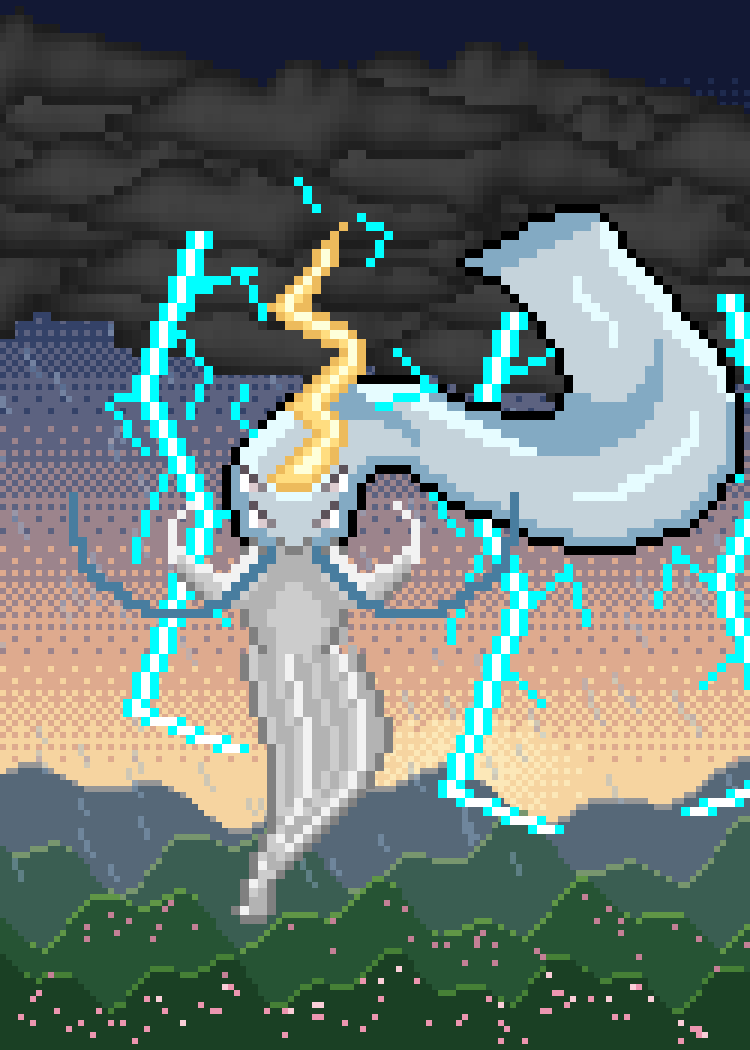
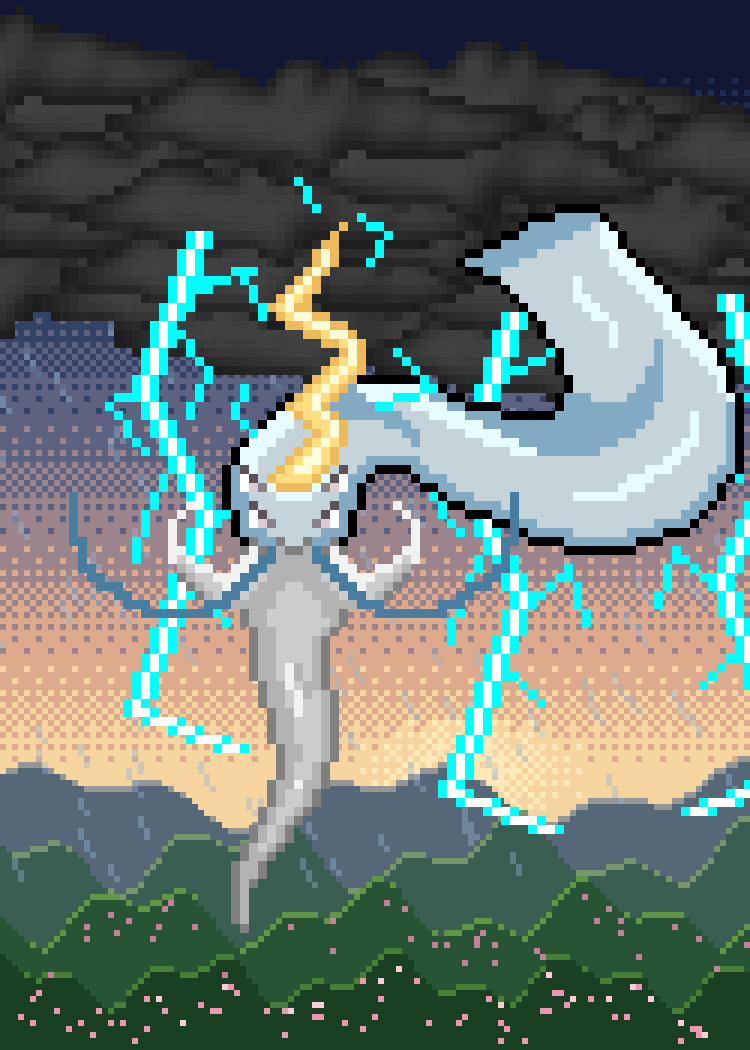
Spring Thunder: Bart nahtlos angesetzt und spitz auslaufend
Der Bart ist ab Zeile 50 als durchgehende Form neu gezeichnet, die Breite und
Zeilenaufbau des Originals fortsetzt (Kontur, Mittelgrau, heller Kern),
ohne Knick in eine S-Welle schwingt und in einer 1-Pixel-Spitze oberhalb
des Rahmens endet.

Claude-Session: https://claude.ai/code/session_01TEnvTzH2xD44R6Unjv7vDo

Changed region(s): [[0.3067, 0.579, 0.5213, 0.8838]]

diff --git a/data/sleeve-proposals/runde4/generator/s51_spring_thunder.py b/data/sleeve-proposals/runde4/generator/s51_spring_thunder.py
@@ -73,41 +73,39 @@ def put(s, x, y):
     m = src[..., 3] > 0; dst[m] = src[m]
 
 drag = sprite('r4q_qinglong', B, [1521, 1522, 1526])   # Ursprung (230, 247) in Motive
-# Bart: in der Ebene am Kartenrand flach abgeschnitten (Zeile 54) – hier als langer, wallender Bart aus
-# einzelnen Strähnen weitergezeichnet, in den Grautönen des Originalbarts (Kontur 128, Strähnen 179/204,
-# Glanz 242), im Raster des Drachen. Die Strähnen schwingen gemeinsam in einer S-Welle und laufen spitz aus.
-BEARD_LEN = 34
+# Bart: in der Ebene am Kartenrand flach abgeschnitten (Zeile 54). Ab Zeile 50 wird er als eine durchgehende,
+# wallende Form weitergezeichnet, die nahtlos an Breite und Zeilenaufbau des Originals anschließt
+# (je Zeile: Kontur 128 | 2× Mittelgrau 179 | heller Kern 204 | Mittelgrau | Kontur): die Mittellinie schwingt
+# ohne Knick aus der Senkrechten in eine S-Welle, die Breite nimmt gleichmäßig bis zu einer 1-Pixel-Spitze ab.
+# Im hellen Kern laufen zwei Strähnenlinien (Glanz 242, Mittelgrau) mit der Welle mit.
+BEARD_LEN = 28
 ext = np.zeros((drag.shape[0] + BEARD_LEN, drag.shape[1], 4), np.uint8)
 ext[:drag.shape[0]] = drag
-ext[53:, 16:36] = 0                                     # abgeschnittenes Bartende entfernen (inkl. Einzelstrang)
-G_OUT, G_MID, G_LIGHT, G_HI = (128, 128, 128), (179, 179, 179), (204, 204, 204), (242, 242, 242)
 Y0 = 50
-starts = np.arange(21, 31)                              # Strähnenansätze über die Bartbreite (Zeile 50)
-for j, x0 in enumerate(starts):
-    length = BEARD_LEN + 1 - abs(j - 4.5) * 1.6 - (j % 3) * 2
-    col = [G_LIGHT, G_MID, G_LIGHT, G_HI, G_MID][j % 5]
-    for y in range(Y0, int(Y0 + length)):
-        t = (y - Y0) / BEARD_LEN
-        spread = 0.55 * np.sin(np.pi * min(1, t * 1.4)) - 0.75 * t    # unterm Kinn aufbauschen, dann zusammen
-        sway = 6.0 * np.sin(t * 5.6 - 0.5 + j * 0.05) * t ** 0.8        # wallende S-Welle, unten stärker
-        x = int(round(x0 + (x0 - 25.5) * spread + sway))
-        if 0 <= x < ext.shape[1]:
-            if ext[y, x, 3] == 0 or y >= 53:
-                ext[y, x, :3] = col; ext[y, x, 3] = 255
-# Lücken zwischen den Strähnen schließen (Bart ist eine Fläche), dann dunkle Kontur außen
-m = ext[..., 3] > 0
-reg = np.zeros_like(m); reg[53:] = True
-for y in range(53, 53 + int(BEARD_LEN * 0.62)):
-    xs = np.where(m[y, 8:44])[0] + 8
-    if len(xs) > 1:
-        for x in range(xs.min(), xs.max() + 1):
-            if not m[y, x]:
-                ext[y, x, :3] = G_MID; ext[y, x, 3] = 255
-m = ext[..., 3] > 0
-edge = np.zeros_like(m)
-edge[1:] |= m[:-1]; edge[:-1] |= m[1:]; edge[:, 1:] |= m[:, :-1]; edge[:, :-1] |= m[:, 1:]
-edge &= ~m & reg
-ext[edge, :3] = G_OUT; ext[edge, 3] = 255
+ext[Y0:, 16:36] = 0                                     # Original ab Zeile 50 (inkl. abgeschnittenem Ende) ersetzen
+G_OUT, G_MID, G_LIGHT, G_HI = (128, 128, 128), (179, 179, 179), (204, 204, 204), (242, 242, 242)
+N = BEARD_LEN + (drag.shape[0] - Y0) - 1                # Anzahl neuer Zeilen
+for i in range(N):
+    y = Y0 + i
+    t = i / (N - 1)
+    c = 24.5 + 6.5 * np.sin(2 * np.pi * 0.85 * t) * t ** 1.3       # Mittellinie: startet senkrecht, schwingt aus
+    h = 5.0 * (1 - t) ** 0.75 + 0.5 * t                              # halbe Breite: 5 (wie Zeile 50) → 0,5 (Spitze)
+    L, R = int(round(c - h)), int(round(c + h)) - 1
+    if R < L: R = L
+    w = R - L + 1
+    for x in range(L, R + 1):
+        k = x - L
+        if w <= 2: col = G_OUT if (w == 1 or k == 0) else G_MID
+        elif k == 0 or k == w - 1: col = G_OUT
+        elif k <= 2 and w >= 7 or k == 1: col = G_MID
+        elif k == w - 2: col = G_MID
+        else: col = G_LIGHT
+        ext[y, x, :3] = col; ext[y, x, 3] = 255
+    # Strähnen im hellen Kern: Glanzlinie und Mittelgrau-Linie laufen mit der Welle
+    if w >= 7 and 3 < i < N - 6:
+        u1, u2 = L + int(round((w - 1) * 0.45)), L + int(round((w - 1) * 0.68))
+        if (i // 5) % 3 != 2: ext[y, u1, :3] = G_HI
+        if (i // 4) % 3 == 1: ext[y, u2, :3] = G_MID
 drag = ext
 bolts = sprite('r4q_bolts', B, [1525])                  # Ursprung (234, 253)
 cloud = sprite('r4q_cloud', B, [1527])                  # Ursprung (218, 234)
